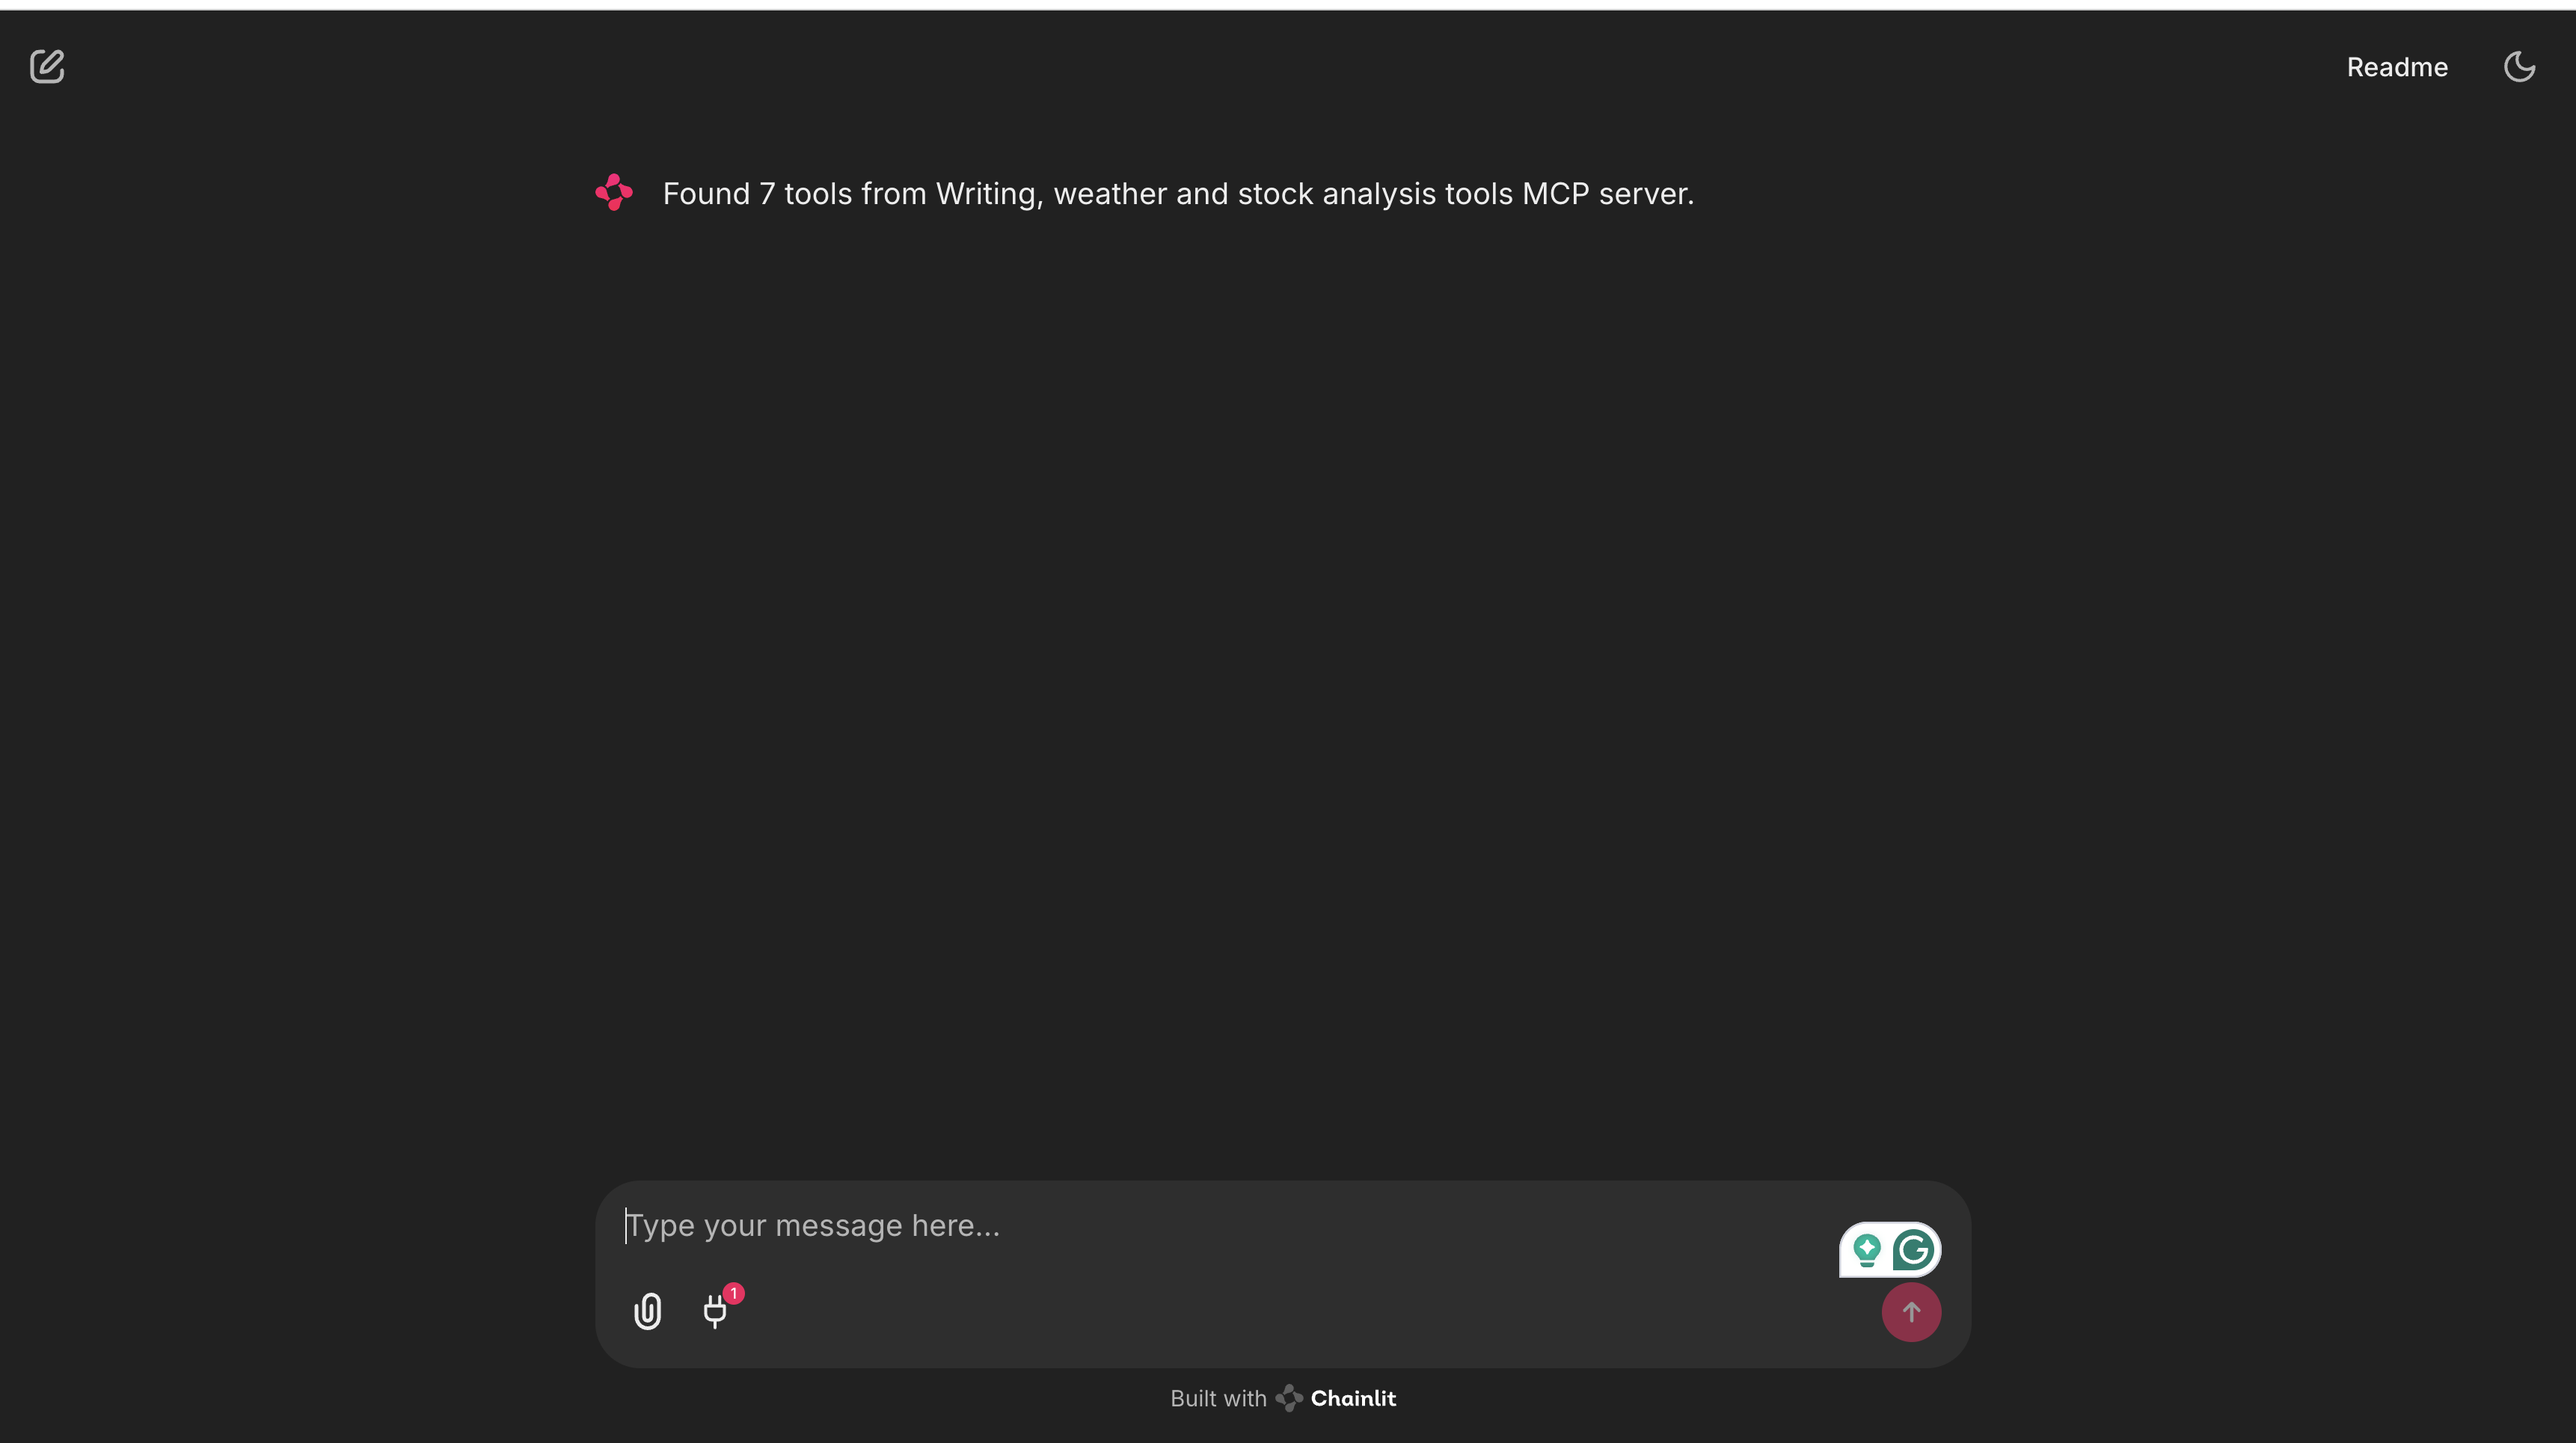
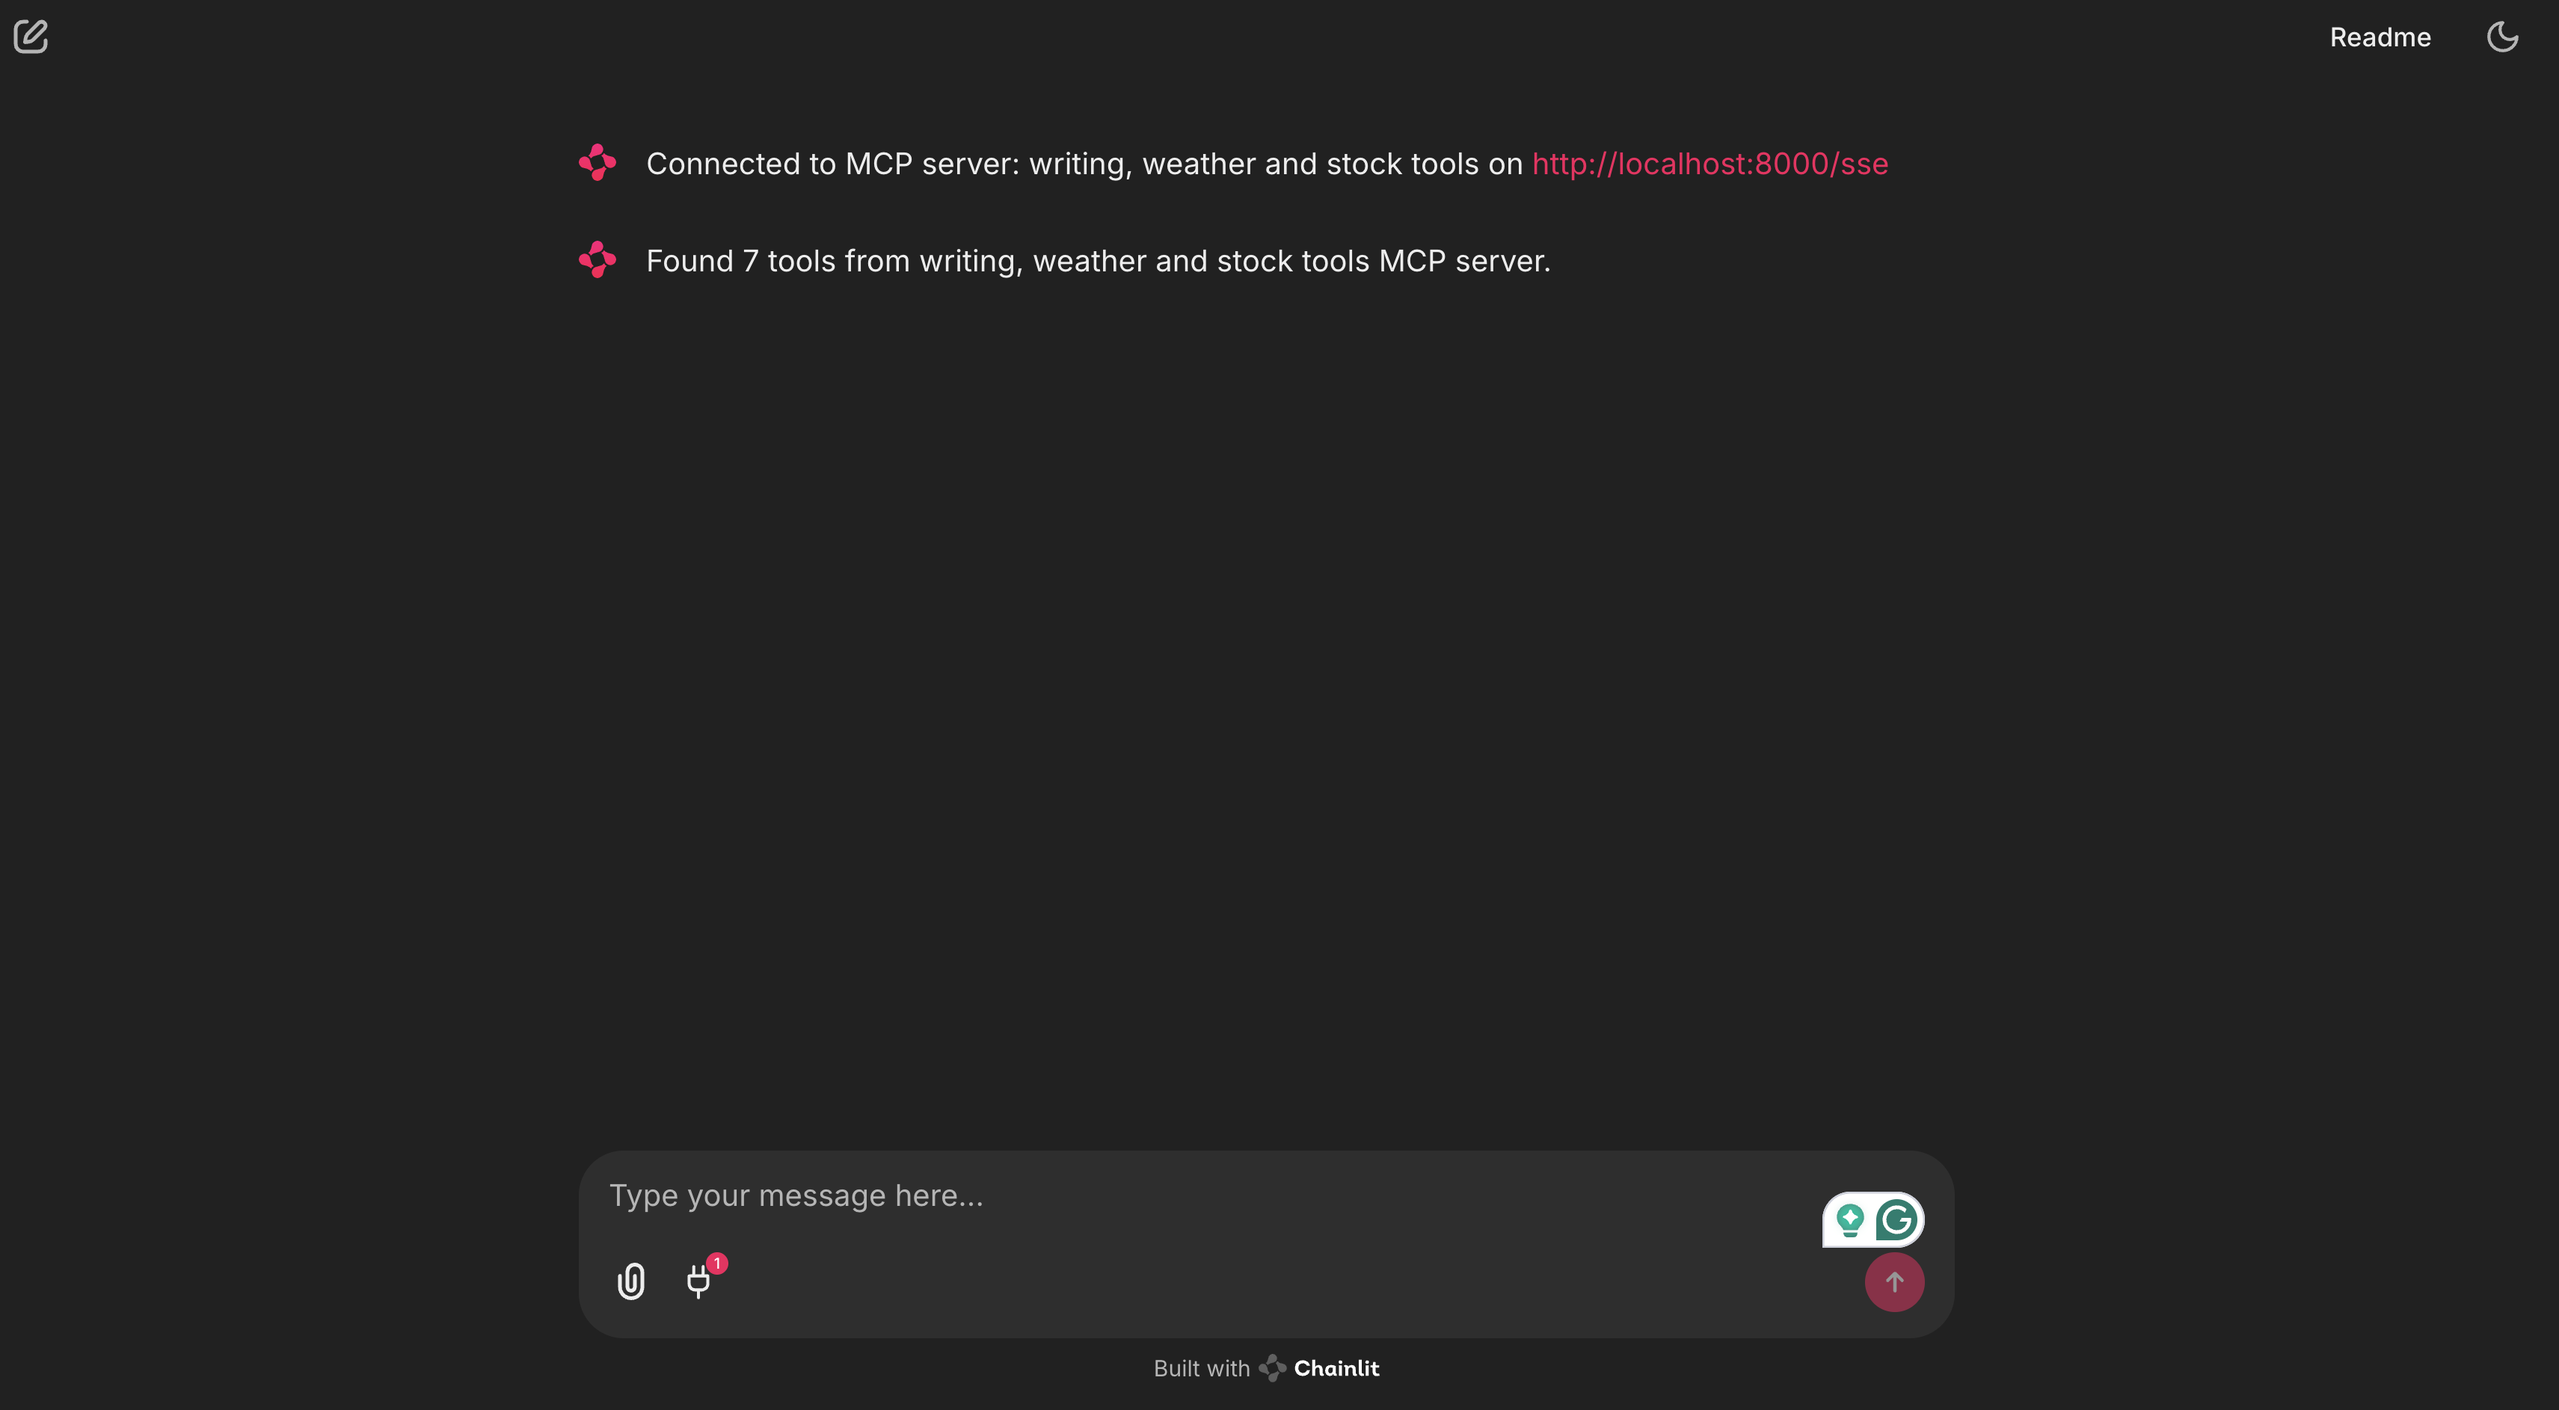
code update

diff --git a/mock.py b/mock.py
@@ -1,20 +1,19 @@
 import chainlit as cl
 
 from llama_index.core.agent import FunctionCallingAgent
-from llama_index.core.base.llms.types import ChatMessage
+from llama_index.core.base.llms.types import ChatMessage, MessageRole
 from llama_index.core.chat_engine import SimpleChatEngine
 from llama_index.core.memory import ChatMemoryBuffer
 from llama_index.llms.ollama import Ollama
 from llama_index.tools.mcp import BasicMCPClient, McpToolSpec
 
-from mcp import ClientSession
-from mcp.types import CallToolResult, TextContent
-
 llm = Ollama(model="qwen2.5", temperature=0)
-mcp_tools_cache = {}
 
 @cl.on_chat_start
 async def start():
+    cl.user_session.set(
+        "mcp_tools", {}
+    )
     cl.user_session.set(
         "agent",
         SimpleChatEngine.from_defaults(
@@ -24,7 +23,7 @@ async def start():
     memory = ChatMemoryBuffer.from_defaults()
     memory.put(
         ChatMessage(
-            role="system", 
+            role=MessageRole.SYSTEM, 
             content="You are a helpful AI assistant. You can access tools using MCP servers if available."
         )
     )
@@ -33,58 +32,72 @@ async def start():
         memory,
     )
 
+@cl.on_message
+async def on_message(message: cl.Message):
+    memory = cl.user_session.get("memory")
+    # Retrieve the chat history
+    chat_history = memory.get()
+    agent = cl.user_session.get("agent")
+    response = await agent.achat(message.content, chat_history=chat_history)
+    memory.put(
+        ChatMessage(
+            role=MessageRole.USER,
+            content=message.content,
+        )
+    )
+    memory.put(
+        ChatMessage(
+            role=MessageRole.ASSISTANT,
+            content=str(response),
+        )
+    )
+    cl.user_session.set("memory", memory)
+    await cl.Message(content=str(response)).send()
+
 @cl.on_mcp_connect
-async def on_mcp_connect(
-    connection, 
-    session: ClientSession
-):
-    
+async def on_mcp_connect(connection):
+    mcp_tools = cl.user_session.get("mcp_tools", {})
     try:
         mcp_client = BasicMCPClient(connection.url)
         mcp_tool_spec = McpToolSpec(client=mcp_client)
-        tools = await mcp_tool_spec.to_tool_list_asnyc()
+        new_tools = await mcp_tool_spec.to_tool_list_async()
+        for tool in new_tools:
+            if tool.metadata.name not in mcp_tools:
+                mcp_tools[tool.metadata.name] = tool
         agent = cl.user_session.get("agent")
         if isinstance(agent, SimpleChatEngine):
             agent = FunctionCallingAgent.from_tools(
-                llm = llm,
-                tools = tools
+                tools=list(mcp_tools.values()),
+                llm=llm,
             )
-        else: #update tool list
-            ...
+        
         cl.user_session.set("agent", agent)
-        await cl.Message(f"Connected to MCP server: {connection.name} on {connection.url}").send()
-    
-        result = await session.list_tools()
-
-        tools = [
-            {
-                "name": t.name,
-                "description": t.description,
-                "input_schema": t.inputSchema,
-            }
-            for t in result.tools
-        ]
-
-        mcp_tools_cache[connection.name] = tools
-
-        mcp_tools = cl.user_session.get("mcp_tools", {})
-        mcp_tools[connection.name] = tools
         cl.user_session.set("mcp_tools", mcp_tools)
+        await cl.Message(f"Connected to MCP server: {connection.name} on {connection.url}").send()
 
         await cl.Message(
-            f"Found {len(tools)} tools from {connection.name} MCP server."
+            f"Found {len(new_tools)} tools from {connection.name} MCP server."
         ).send()
     except Exception as e:
         await cl.Message(f"Error listing tools from MCP server: {str(e)}").send()
 
 @cl.on_mcp_disconnect
-async def on_mcp_disconnect(name: str, session: ClientSession):
-    if name in mcp_tools_cache:
-        del mcp_tools_cache[name]
-
+async def on_mcp_disconnect(name: str):
     mcp_tools = cl.user_session.get("mcp_tools", {})
     if name in mcp_tools:
         del mcp_tools[name]
-        cl.user_session.set("mcp_tools", mcp_tools)
 
+    # Update tools list in agent
+    if len(mcp_tools)>0:
+        agent = FunctionCallingAgent.from_tools(
+            tools=list(mcp_tools.values()), #agent still has tools not removed
+            llm=llm,
+        )
+    else:
+        agent = SimpleChatEngine.from_defaults(
+            llm=llm,
+        )
+    cl.user_session.set("mcp_tools", mcp_tools)
+    cl.user_session.set("agent", agent)
+    
     await cl.Message(f"Disconnected from MCP server: {name}").send()
